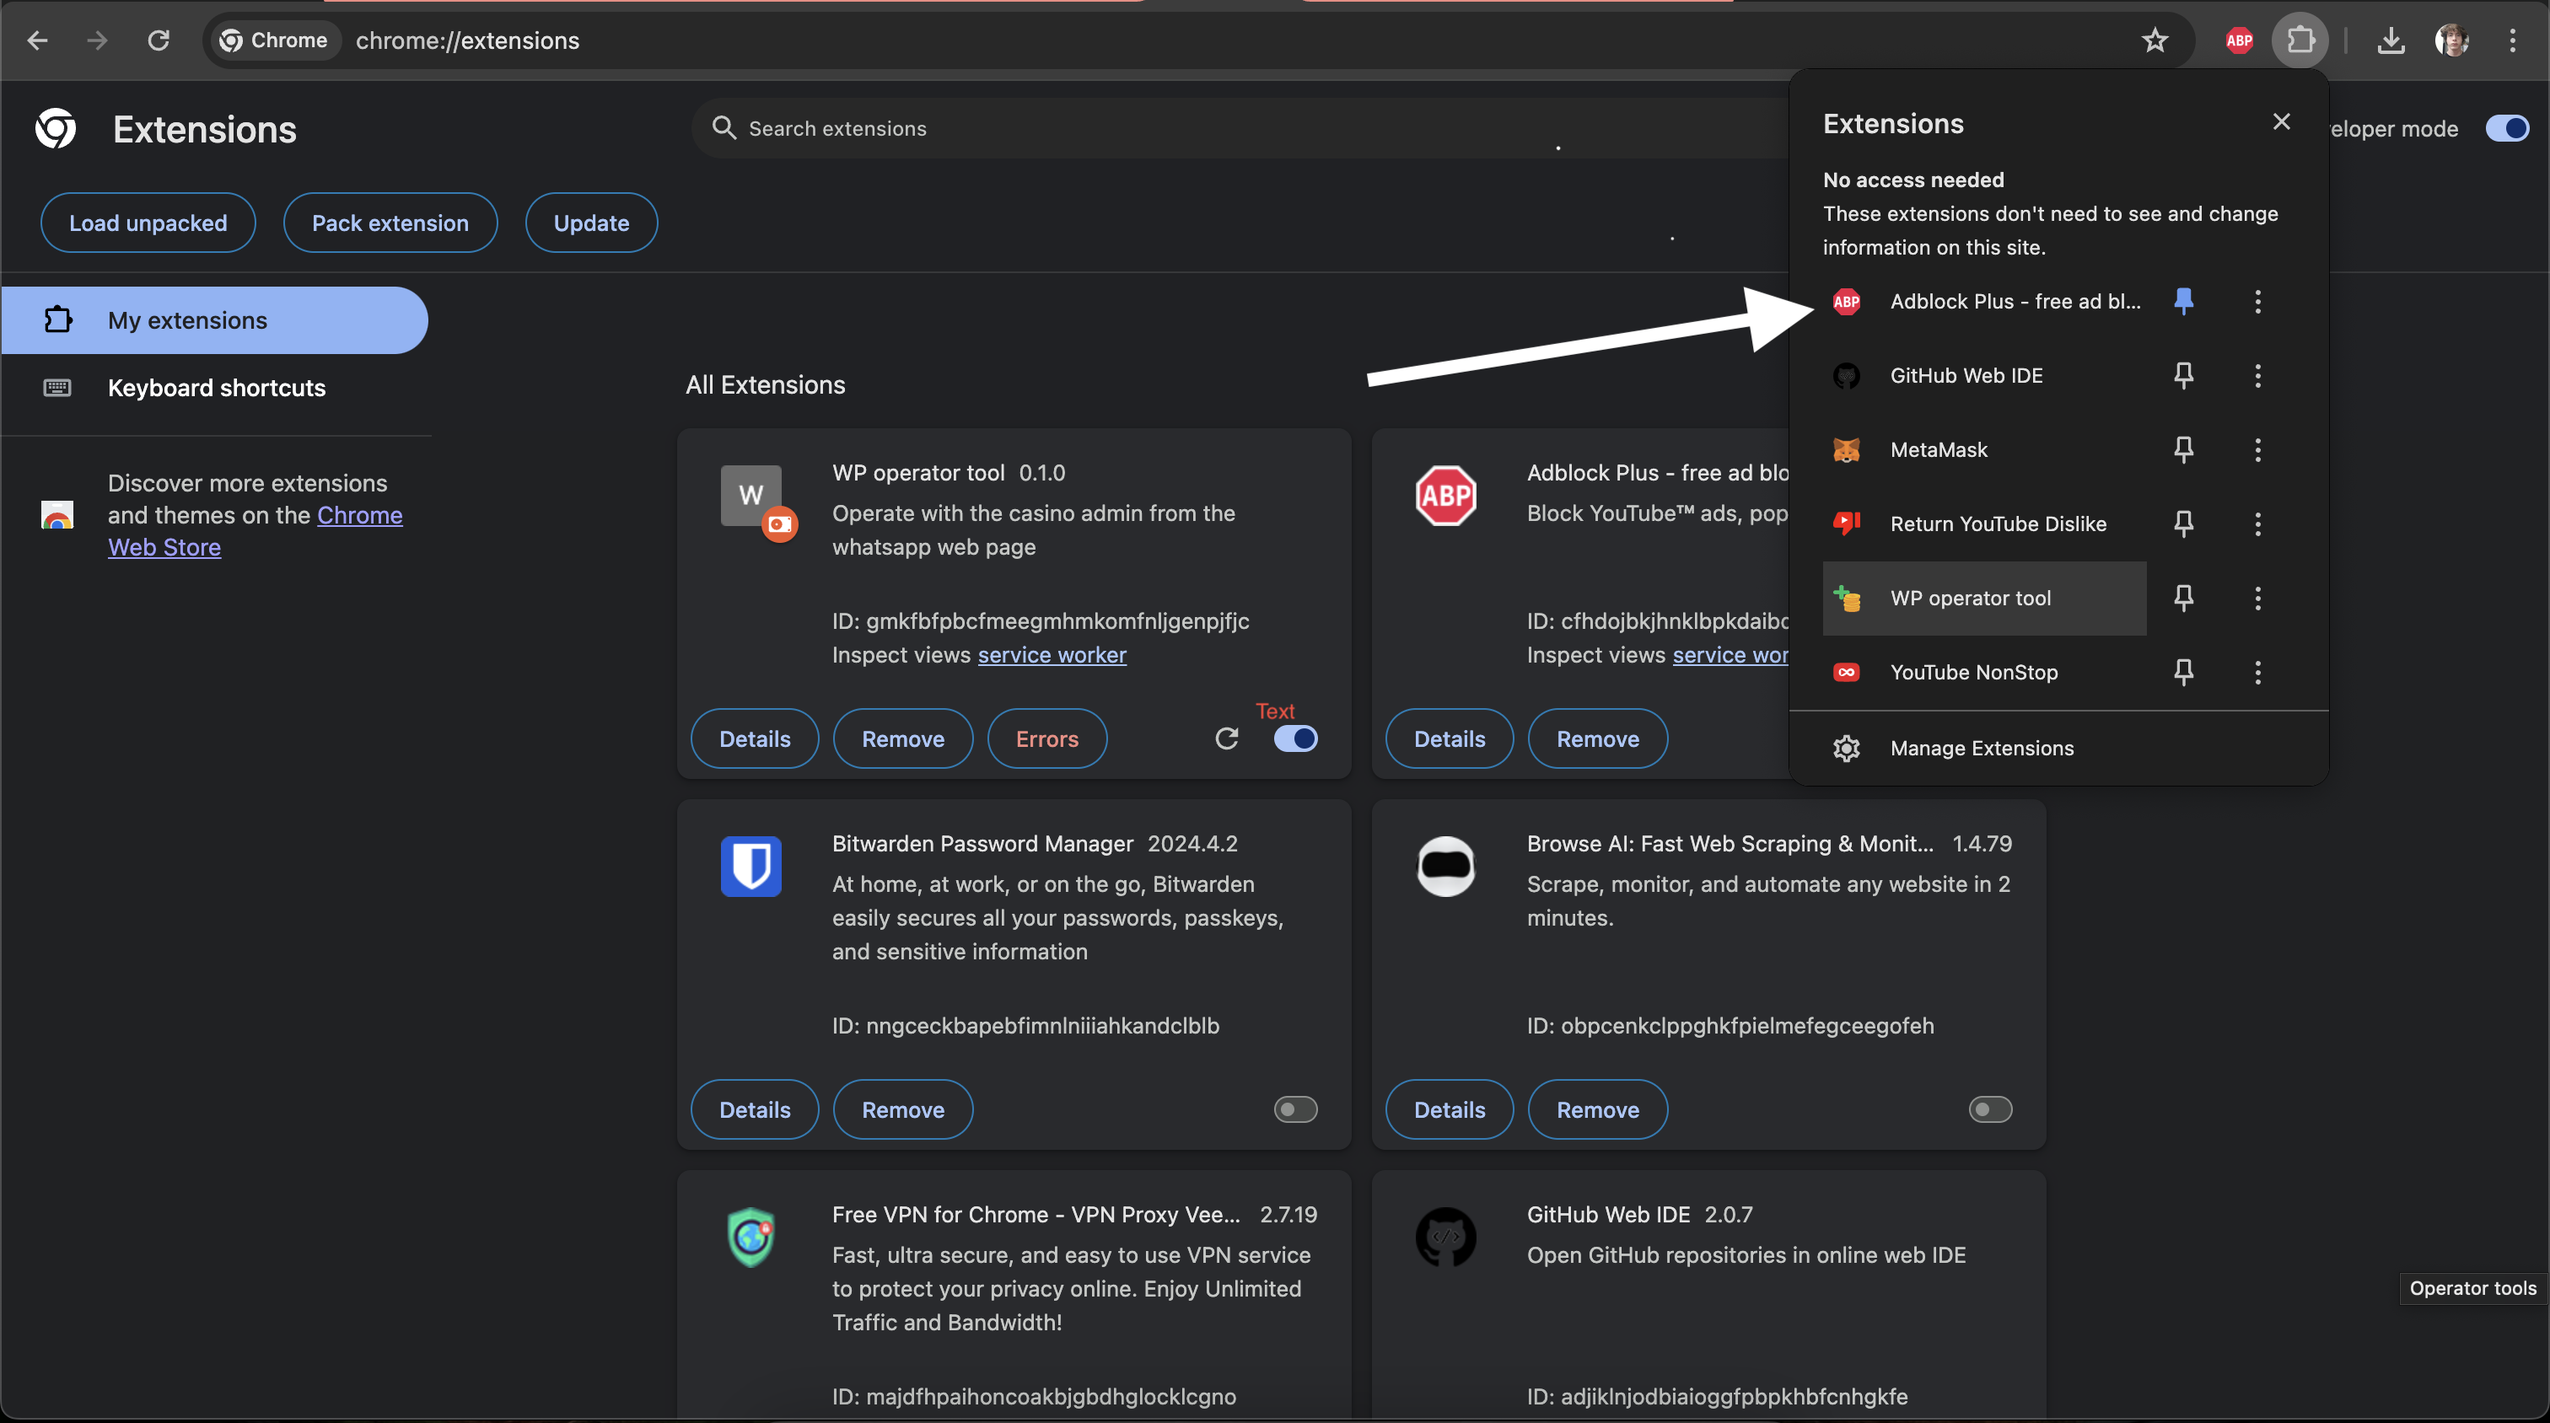
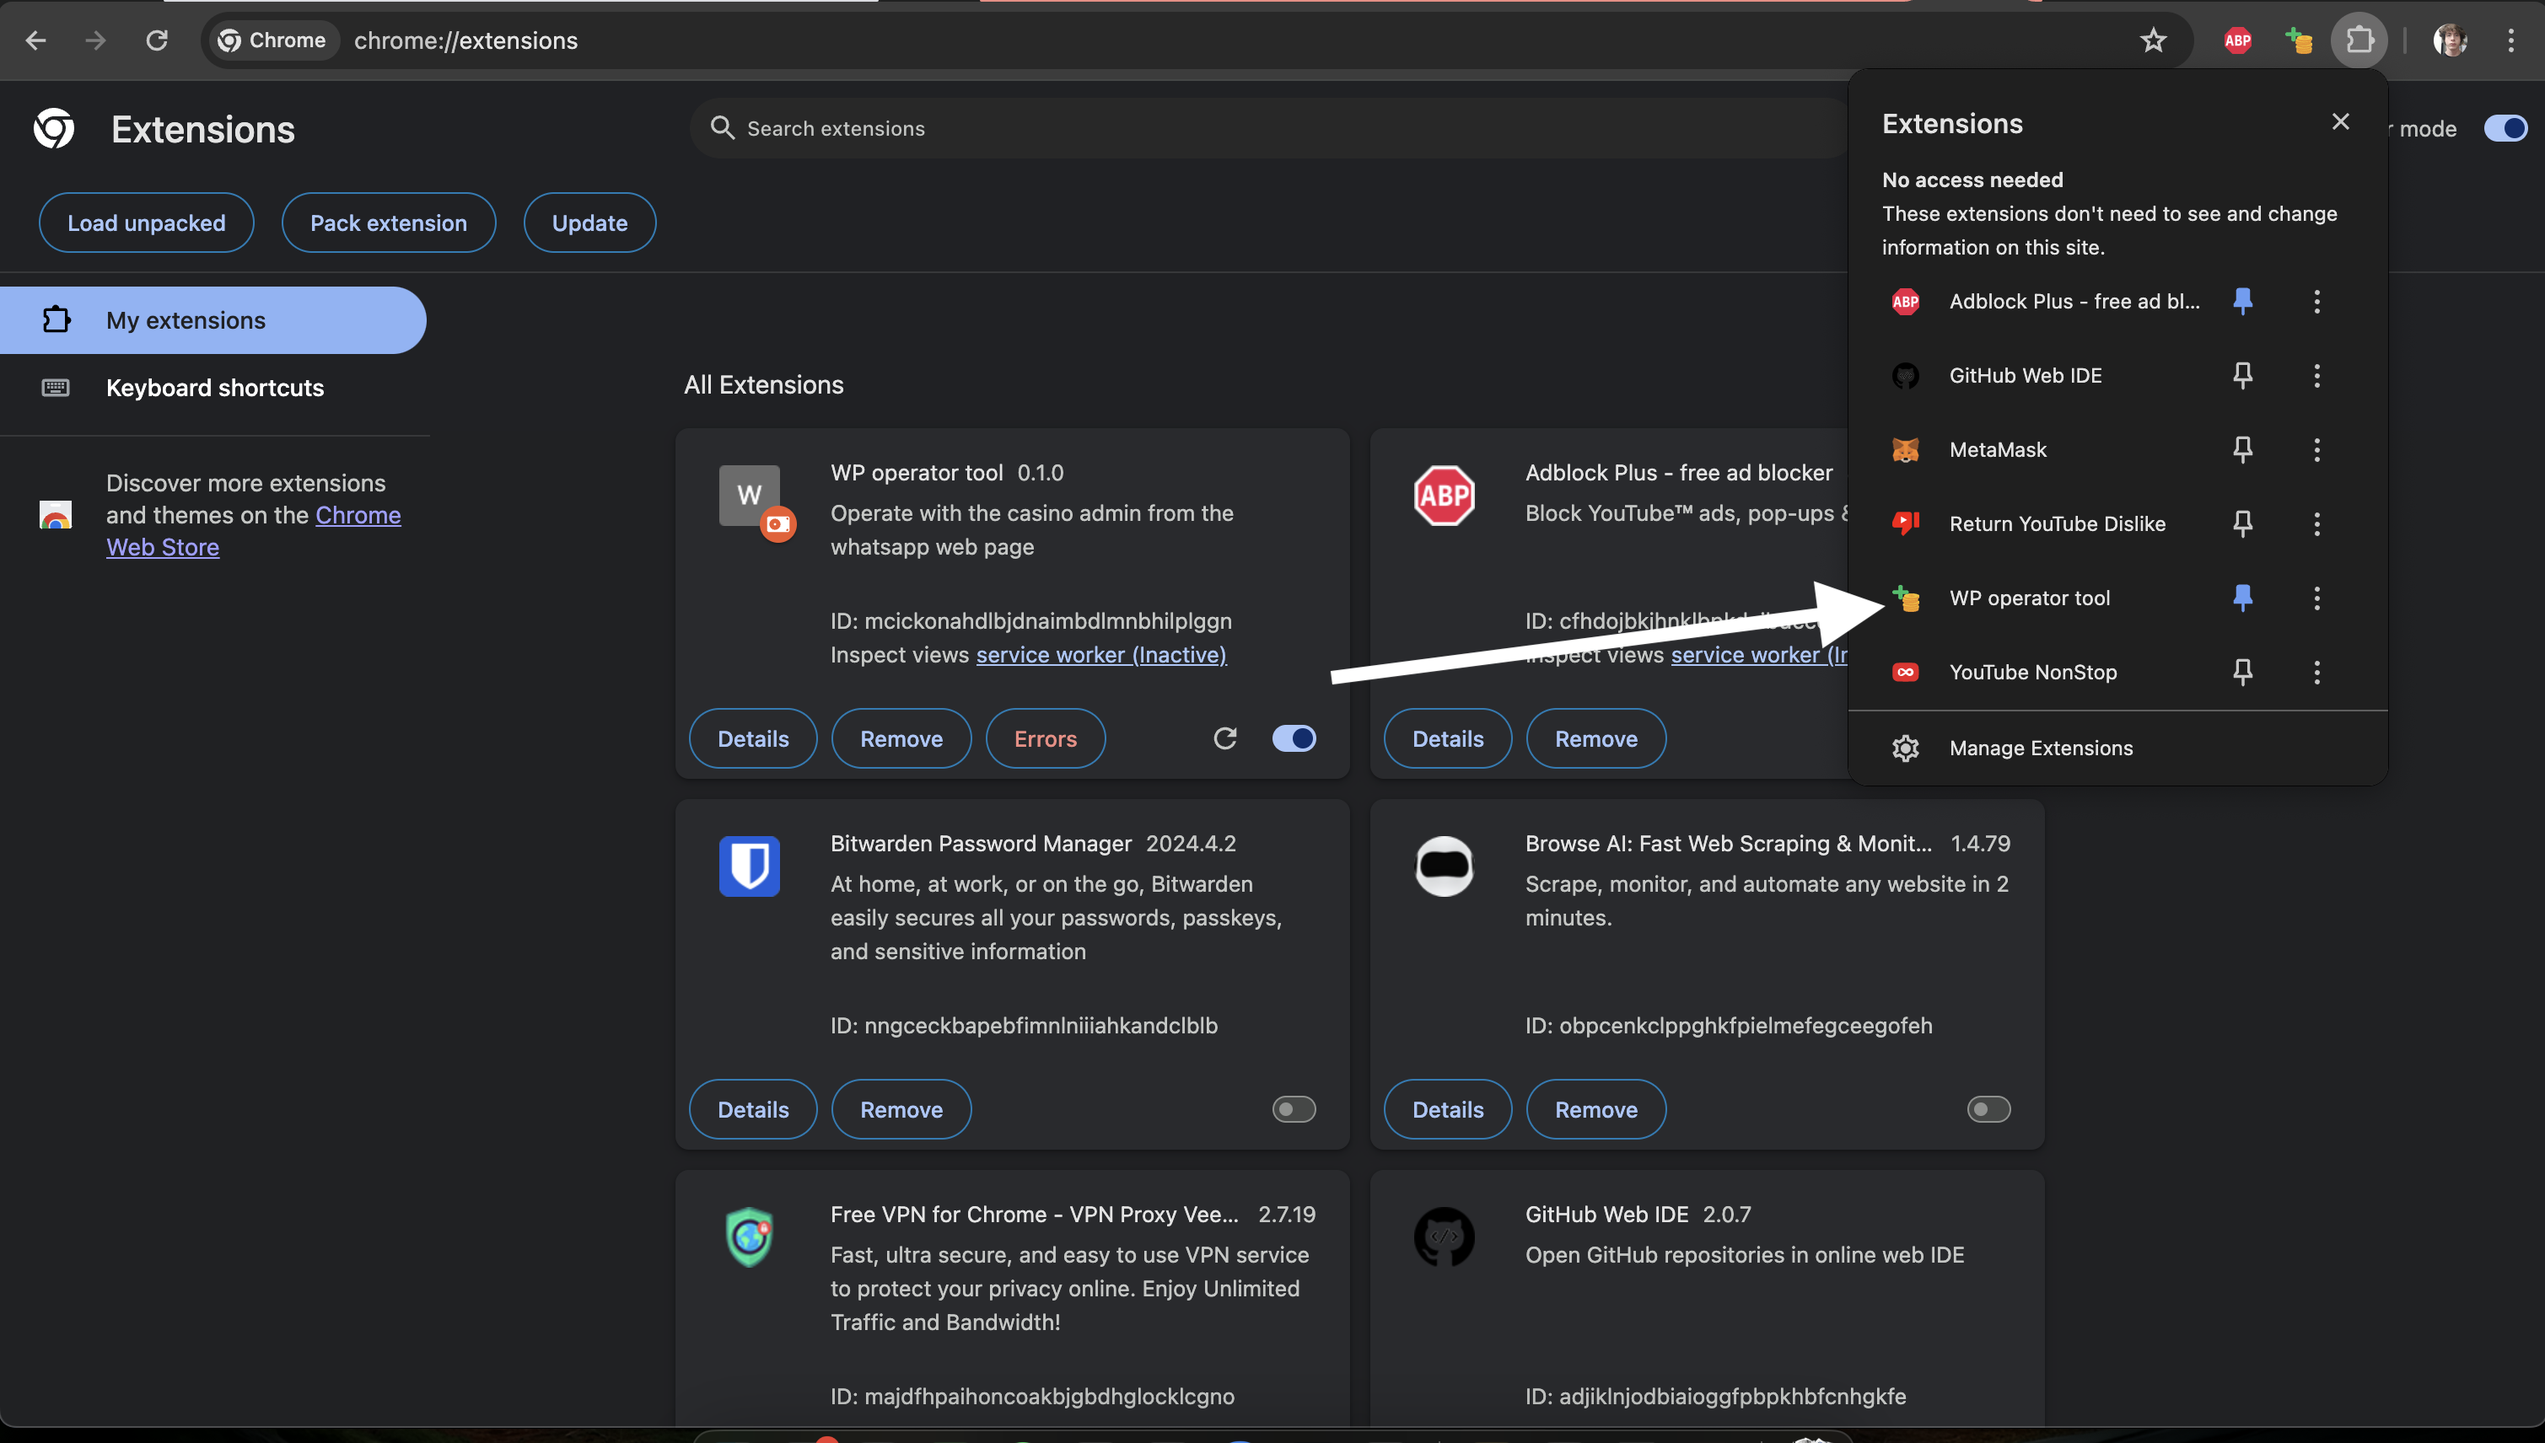
modified web

diff --git a/index.html b/index.html
@@ -167,7 +167,10 @@
             data-title="5 Coloque la carpeta extraída en un lugar seguro (Documentos, Escritorio, etc.)."
           ></li>
           <li data-title="6 Vaya a la página de extensiones de Chrome.">
-            <a href="chrome://extensions/" target="_blank"
+            <a
+              href="chrome://extensions/"
+              target="_blank"
+              style="text-decoration: underline"
               >chrome://extensions/</a
             >
             <img
@@ -182,7 +185,7 @@
             data-title="8 Haga clic en 'Cargar extensión descomprimida' arriba a la izquierda."
           ></li>
           <li
-            data-title="9 Seleccione la carpeta que descomprimió previamente y colocó en un lugar seguro."
+            data-title="9 Seleccione la carpeta que previamente descomprimió y colocó en un lugar seguro."
           >
             <img
               src="assets/load.png"
@@ -193,29 +196,38 @@
           <li
             data-title="11. Ahora la extensión está cargada y lista para usar."
           ></li>
-          <li data-title="12. Haga clic en el icono de la extensión.">
-            <img src="assets/click_ext.png" alt="Icono de la extensión" />
+          <li data-title="12. Desactive la extension.">
+            <img src="assets/deactivate.png" alt="Desactive extension" />
           </li>
-
           <li
             data-title="13. Ingresa al siguiente link y completa el formulario. Antes de continuar con las instrucciones espere a obtener respuesta."
           >
             <a
               href="https://docs.google.com/forms/d/1-t7s9fGziPHCBzUtOjBBXSwtAwnKs964722HHd0wz1k"
               target="_blank"
+              style="text-decoration: underline"
               >Formulario de Registro</a
             >
           </li>
-          <li data-title="14. Agregue la clave API y el secreto.">
+
+          <li data-title="14. Active extensión que previamente desactivo."></li>
+          <li data-title="15. Haga clic en el icono de la extensión.">
+            <img src="assets/click_ext.png" alt="Icono de la extensión" />
+          </li>
+          <li
+            data-title="16. Agregue la clave API y el SECRETO que le dio el administrador."
+          >
             <img
               src="assets/complete_ext.png"
               alt="Agregar clave API y secreto"
             />
           </li>
-          <li data-title="15. Abra WhatsApp y recargue la página."></li>
-          <li data-title="16. Siga instrucciones."></li>
+          <li data-title="17. Abra WhatsApp y recargue la página."></li>
           <li
-            data-title="17. Ya se conectaron a tu pc y terminaste el proceso? ¡Listo! Ya puede operar. De otra forma espere a que lo contacten"
+            data-title="19. Ya se conectaron a tu pc y terminaste el proceso? ¡Listo! Ya puede operar. De otra forma espere a que lo contacten"
+          ></li>
+          <li
+            data-title="NOTA: Si necesita desactivar la extension siga instruccion 12 nuevamente"
           ></li>
         </ol>
       </section>
